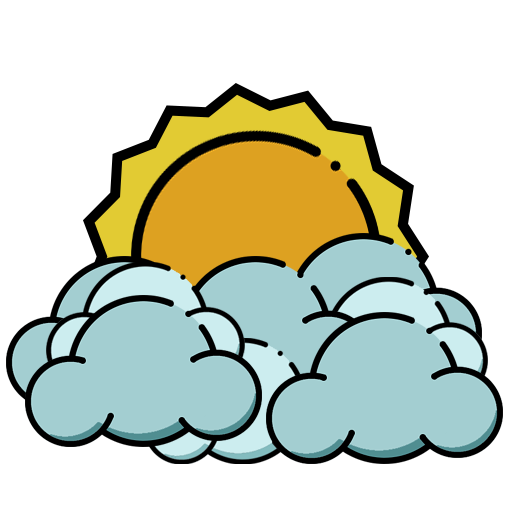
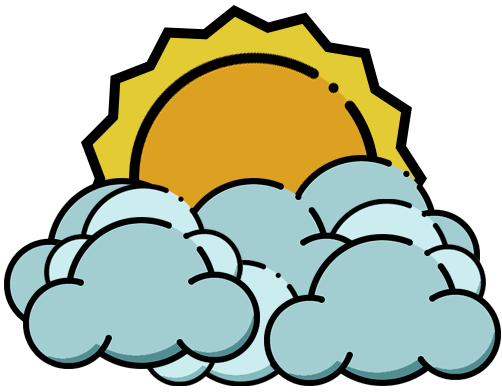
Add minor edits and style changes

diff --git a/travel-wisely/src/components/Weather/styles.js b/travel-wisely/src/components/Weather/styles.js
@@ -66,7 +66,8 @@ export default makeStyles(() => ({
     }
   },
   currentConditions_text: { 
-    marginLeft: '20px',
+    marginLeft: '50px',
+    minWidth: '170px',
     '@media (max-width: 460px)': {
       marginLeft: '10px',
     }
@@ -75,7 +76,7 @@ export default makeStyles(() => ({
     display: 'flex',
     alignItems: 'center',
     flexDirection: 'row',
-    marginLeft: '20px',
+    marginLeft: '100px',
     marginRight: '0px',
     minWidth: '250px',
     '@media (max-width: 960px)': {
@@ -122,8 +123,11 @@ export default makeStyles(() => ({
 },
   weatherIcon: {
     height: '200px',
+    width: '200px',
+    objectFit: 'contain',
     '@media (max-width: 600px)': {
-      height: '100px'
+      height: '100px',
+      width: '100px',
     }
   },
   icons: {

diff --git a/travel-wisely/public/index.html b/travel-wisely/public/index.html
@@ -19,7 +19,7 @@
     <meta name="theme-color" content="#000000" /><meta name="author" content="Julian Bristol"/>
     <meta
       name="description"
-      content="TBD"
+      content="A comprehensive a platform that empowers users with location-based information, weather forecasts, and recommendations for nearby restaurants, hotels, and attractions. It helps users make informed travel decisions and explore new places with confidence."
     />
     <script src="https://maps.googleapis.com/maps/api/js?v=3.exp&libraries=geometry,drawing,places&key=<%= process.env.REACT_APP_GOOGLE_MAPS_API_KEY %>"></script>
     <title>React App</title>

diff --git a/travel-wisely/src/components/Weather/WeatherIcon.jsx b/travel-wisely/src/components/Weather/WeatherIcon.jsx
@@ -37,7 +37,7 @@ const WeatherIcon = ({weatherConditions}) => {
         setWeatherIcon(Cloud);
     }else if (['143', '248', '260', ].includes(weatherType)) {
         setWeatherIcon(Fog);
-    }else if (['176', '263', '266', '293', '296', '299', '302', '305', '308', '358', '356', '359'].includes(weatherType) && weatherIcon === '') {
+    }else if (['176', '263', '266', '293', '296', '299', '302', '305', '308', '358', '356', '359'].includes(weatherType)) {
         setWeatherIcon(Rain);
     }else if (['200', '386', '389'].includes(weatherType)) {
         setWeatherIcon(Thunderstorm);

diff --git a/travel-wisely/src/components/Header/styles.js b/travel-wisely/src/components/Header/styles.js
@@ -1,6 +1,9 @@
 import { alpha, makeStyles } from "@material-ui/core/styles";
 
 export default makeStyles((theme) => ({
+  appBar: {
+    zIndex: '999',
+  },
   title: {
     diplay: "none",
     [theme.breakpoints.up("sm")]: {
@@ -8,7 +11,7 @@ export default makeStyles((theme) => ({
     },
   },
   home: {
-    diplay: "none",
+    display: "none",
     [theme.breakpoints.up("sm")]: {
       display: "block",
     },

diff --git a/travel-wisely/src/components/Header/Header.jsx b/travel-wisely/src/components/Header/Header.jsx
@@ -18,7 +18,7 @@ const Header = ({ setCoordinates }) => {
   }
 
   return (
-    <AppBar>
+    <AppBar className={classes.appBar}>
       <Toolbar className={classes.toolbar}>
         <Typography
           variant="h5"
